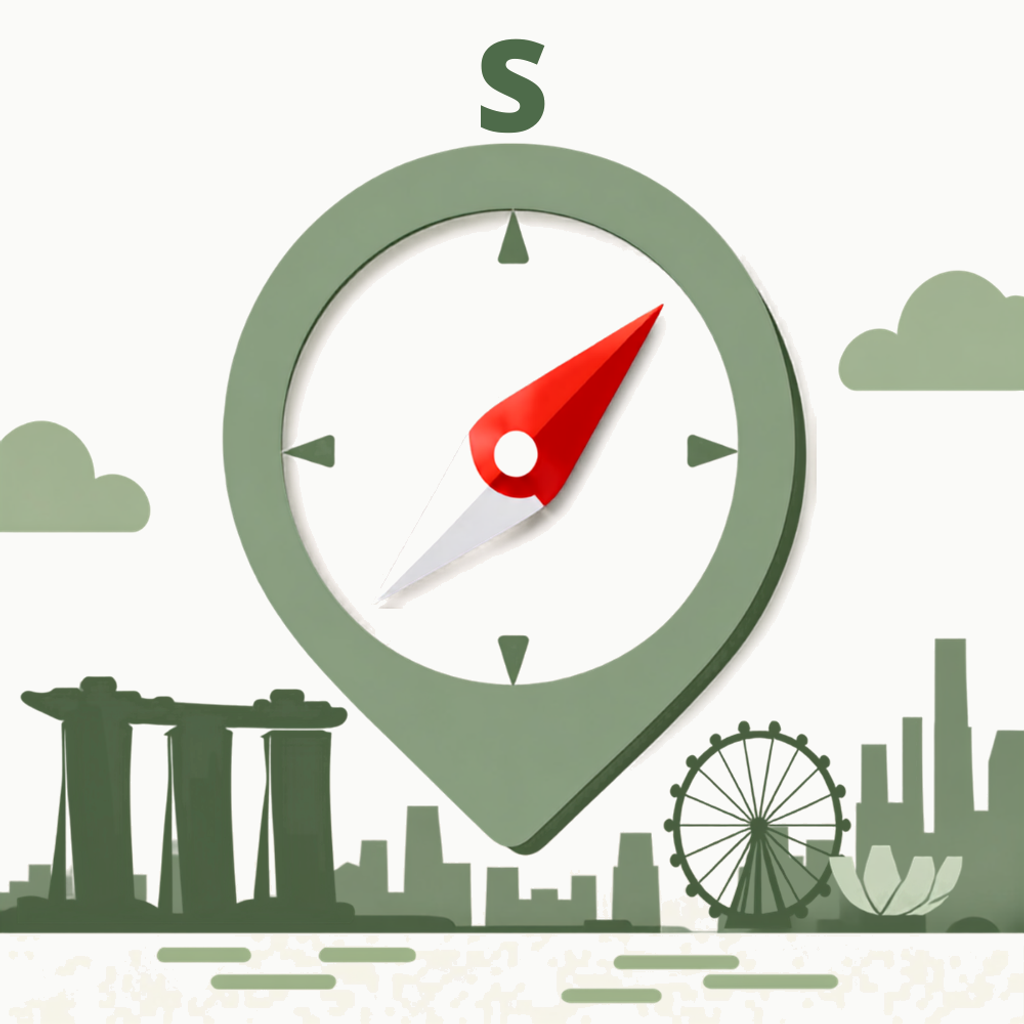
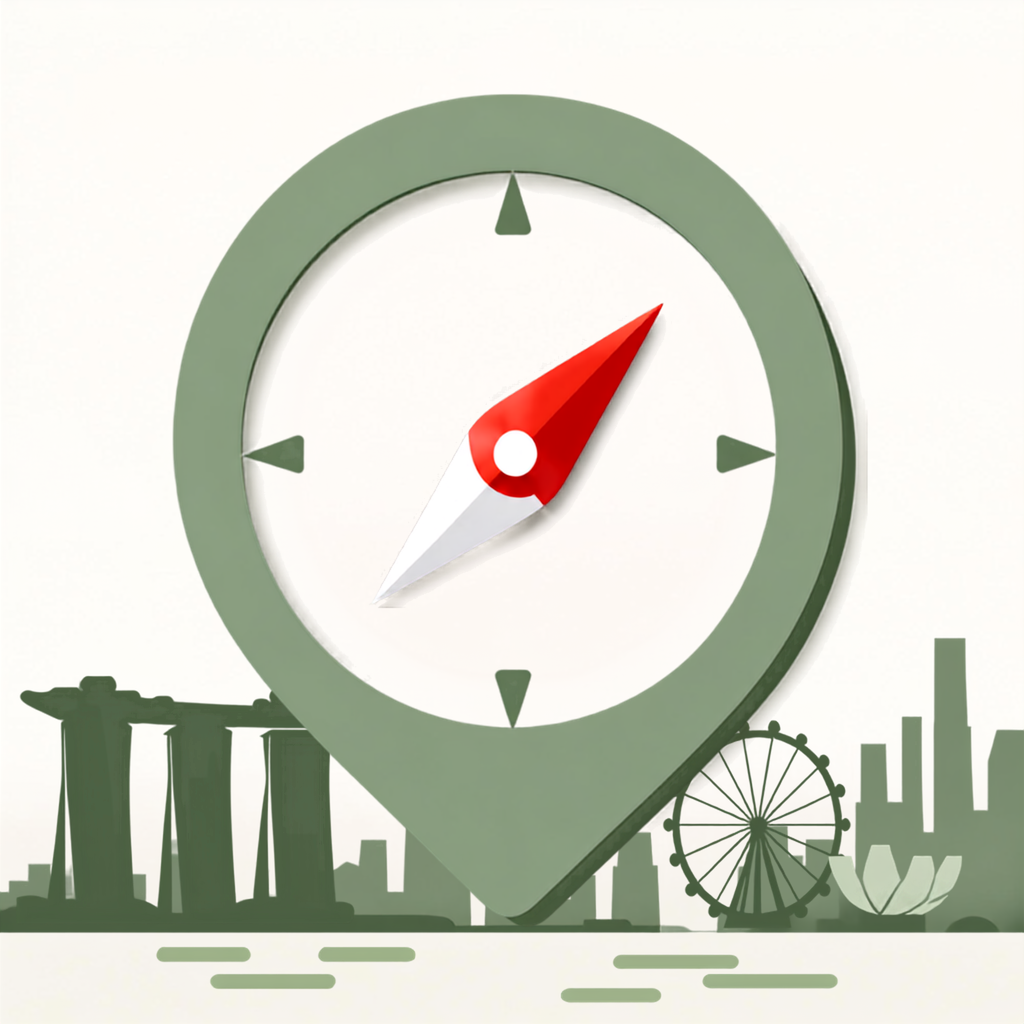
アプリアイコン・スプラッシュ画面を新デザイン(コンパス+SGスカイライン)に全差し替え
シンガポール島スカイライン+コンパス針のピンアイコン(雲と「S」文字を削除した最終FIX版)で
Web版・iOS版アイコンとiOSスプラッシュ(ライト/ダーク)を統一。あわせてsw.jsが実在しない
.svgアイコンを参照していたバグも修正(.pngに修正、CACHE_NAMEをv877に更新)。

Claude-Session: https://claude.ai/code/session_01GSgz9PjvrBMXpjy7BmpkC7

diff --git a/public/sw.js b/public/sw.js
@@ -1,11 +1,11 @@
 // ─── Service Worker for 今週末どこいく？SG ───
-const CACHE_NAME = 'sg-weekend-v876';
+const CACHE_NAME = 'sg-weekend-v877';
 const STATIC_ASSETS = [
   '/manifest.json',
   '/app.css',
   '/app.js',
-  '/icons/icon-192.svg',
-  '/icons/icon-512.svg',
+  '/icons/icon-192.png',
+  '/icons/icon-512.png',
   'https://fonts.googleapis.com/css2?family=Playfair+Display:wght@700;900&family=Noto+Sans+JP:wght@300;400;500;700&family=DM+Serif+Display:ital@0;1&display=swap',
 ];
 
@@ -98,8 +98,8 @@ self.addEventListener('push', event => {
   event.waitUntil(
     self.registration.showNotification(data.title || 'SG在住Navi', {
       body: data.body,
-      icon: '/icons/icon-192.svg',
-      badge: '/icons/icon-192.svg',
+      icon: '/icons/icon-192.png',
+      badge: '/icons/icon-192.png',
       tag: 'sg-weekend',
       renotify: true,
       data: data.data || {},
